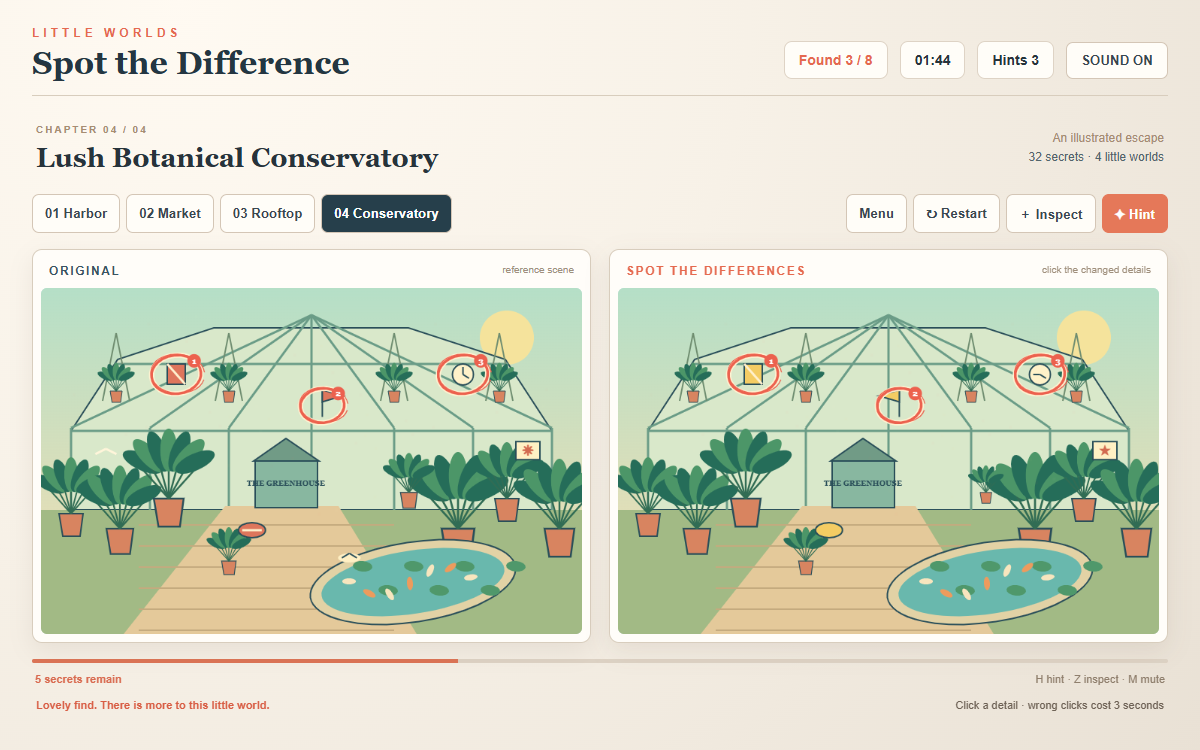
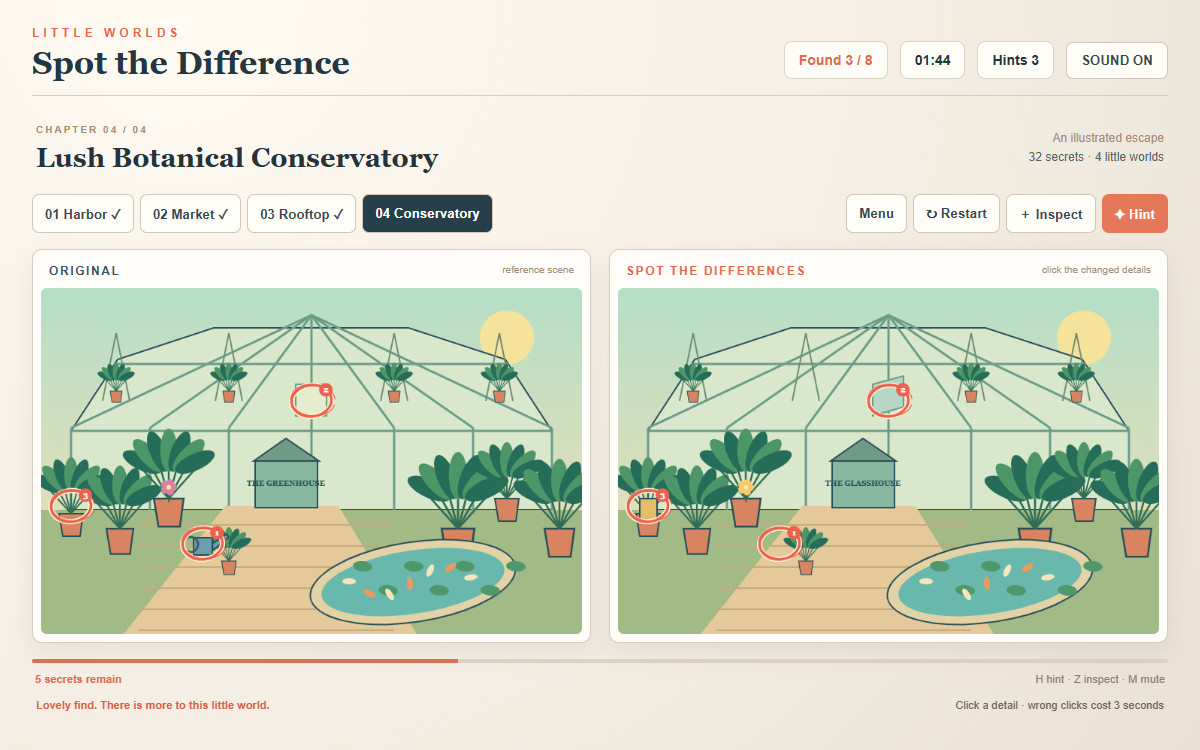
Integrate scene-native differences and refreshed browser captures

diff --git a/game/src/draw.js b/game/src/draw.js
@@ -10,12 +10,16 @@ function cloud(x,y){oval(x,y,38,10,'#fff6e2');oval(x-14,y-7,17,12,'#fff6e2');ova
 function house(x,y,w,h,color){box(x,y,w,h,color);path([[x-5,y],[x+w/2,y-30],[x+w+5,y]],'#d77c5c');for(let dx=10;dx<w-12;dx+=25)for(let dy=15;dy<h-20;dy+=32){box(x+dx,y+dy,13,20,'#fff2c3');line(x+dx+6,y+dy,x+dx+6,y+dy+20);line(x+dx,y+dy+9,x+dx+13,y+dy+9)}box(x+w/2-9,y+h-25,18,25,'#426b70')}
 function plant(x,y,size=1){c.save();c.translate(x,y);c.scale(size,size);path([[-16,0],[16,0],[12,30],[-11,30]],'#d88460');for(let j=0;j<7;j++){const a=(j-3)*.38;line(0,0,Math.sin(a)*40,-28-Math.cos(a)*30,'#316c54',2);oval(Math.sin(a)*31,-30-Math.cos(a)*22,9,23,j%2?'#4c9668':'#256d59',a)}c.restore()}
 function boat(x,y,color){oval(x,y+16,51,8,'#387e8c');path([[x-48,y],[x+49,y],[x+30,y+22],[x-29,y+22]],color);line(x,y,x,y-89);path([[x-4,y-80],[x-4,y-8],[x-47,y-8]],'#fff0cd');path([[x+4,y-67],[x+38,y-8],[x+4,y-8]],'#eab65f');line(x-28,y+9,x+29,y+9,'#fff3d1')}
-function table(x,y){oval(x,y,37,13,'#e9af7b',0,ink);line(x,y+10,x,y+54);line(x,y+54,x-25,y+65);line(x,y+54,x+25,y+65);box(x-10,y-15,16,13,'#fff2cd');oval(x+7,y-9,5,5,'#fff2cd',0,ink);oval(x-2,y-16,9,3,'#5b4034')}
+function table(x,y,cup=true,cupColor='#fff2cd'){oval(x,y,37,13,'#e9af7b',0,ink);line(x,y+10,x,y+54);line(x,y+54,x-25,y+65);line(x,y+54,x+25,y+65);if(!cup)return;box(x-10,y-15,16,13,cupColor);oval(x+7,y-9,5,5,'#fff2cd',0,ink);oval(x-2,y-16,9,3,'#5b4034')}
 function harbor(){cloud(95,65);cloud(370,85);path([[0,212],[130,160],[255,215],[390,170],[540,225],[720,182],[720,300],[0,300]],'#82b9b3',null);box(0,265,720,195,'#63b5c0',null);for(let j=0;j<38;j++){let x=(j*93)%720,y=278+(j*37)%180;line(x,y,x+20+j%4*8,y,'#add6ce',2)}house(23,187,66,100,'#f3ce99');house(94,175,67,112,'#e69d86');house(166,196,58,91,'#f1dfac');house(228,172,69,115,'#8db9ae');house(305,191,62,95,'#e7a06f');path([[517,268],[529,127],[560,127],[574,268]],'#fff2d1');path([[525,167],[563,167],[568,190],[522,190]],'#df715c');box(523,117,43,23,'#f4c66d');path([[516,117],[545,96],[573,117]],'#d75d50');line(545,96,545,81);oval(545,77,4,4,'#f7d770');box(537,217,15,27,'#3e6c78');path([[0,358],[365,320],[486,346],[0,425]],'#c89367');for(let j=0;j<15;j++)line(j*35,355-j*3.8,j*35+25,410-j*4.5,'#9b6d50');for(let x=35;x<390;x+=80){box(x,365-x*.1,11,63,'#8b6653');oval(x+5,365-x*.1,9,4,'#eac69b')}boat(440,350,'#de7357');boat(625,403,'#f6c25d');plant(55,371,.6);oval(655,105,40,8,'#f4e8cd');line(638,101,655,106,'#456a76');line(655,106,673,99,'#456a76');label('PORT SOL',195,268,13)}
-function market(){cloud(120,65);cloud(365,82);path([[0,310],[720,310],[720,460],[0,460]],'#d99c73',null);for(let y=340;y<460;y+=30)line(0,y,720,y,'#b87f64');for(let x=-200;x<900;x+=85)line(360,290,x,460,'#b87f64');house(15,180,90,137,'#e98f73');house(120,160,100,155,'#e9c47c');house(505,174,85,145,'#bd8d8b');house(605,197,99,122,'#e8b56e');box(421,124,66,195,'#f2c18a');box(413,112,82,20,'#d57959');path([[418,112],[454,74],[491,112]],'#77586b');oval(454,151,23,23,'#fff0c0',0,ink);line(454,151,454,136);line(454,151,464,157);for(let k=0;k<2;k++){let x=70+k*240;box(x,288,170,70,'#b87c50');box(x,264,170,35,'#f0b86d');for(let j=0;j<9;j++)box(x+j*19,225,19,40,j%2?'#f5dfb0':'#c85855');line(x,225,x+170,225);line(x,263,x,357);line(x+170,263,x+170,357);for(let j=0;j<15;j++)oval(x+12+(j%8)*20,281-Math.floor(j/8)*14,8,8,k?'#e8b94f':'#da6950',0,ink);label(k?'CITRUS & SUN':'THE FIG STALL',x+85,328,13,'#fff1c4')}line(0,95,720,125);for(let x=45;x<720;x+=100){line(x,96+x/24,x,140);oval(x,151,12,17,'#ef9c56',0,ink);line(x-10,148,x+10,148,'#f8d47b')}oval(585,383,20,20,'#3a5860');oval(667,383,20,20,'#3a5860');box(582,346,70,25,'#7cb5ae');path([[638,371],[652,324],[668,324],[667,371]],'#7cb5ae');line(649,323,678,323);box(589,336,34,8,'#614e48');plant(272,354,.65)}
-function rooftop(){for(let j=0;j<65;j++){const x=(j*127+21)%720,y=(j*43+12)%235;oval(x,y,j%4===0?2:1,1.5,'#f4e4b3')}for(let j=0;j<12;j++){let x=j*65,y=190+(j*29)%75;box(x,y,55,140,'#384a70',null);for(let xx=8;xx<48;xx+=13)for(let yy=12;yy<100;yy+=22)box(x+xx,y+yy,5,8,(j+yy)%3?'#e2b87a':'#596d8a',null)}box(0,307,720,153,'#b77d70',null);for(let y=330;y<460;y+=27)line(0,y,720,y,'#976576');box(0,281,720,20,'#d2a19c');for(let x=15;x<720;x+=28)line(x,300,x,326,'#f1c7a2',3);c.beginPath();c.moveTo(0,83);c.quadraticCurveTo(360,175,720,78);c.strokeStyle='#152b49';c.lineWidth=3;c.stroke();for(let x=20;x<720;x+=46){let y=85+67*Math.sin(x/720*Math.PI);line(x,y,x,y+12);oval(x,y+18,5,8,'#ffdb7b');oval(x,y+18,10,12,'#ffdb7b22')}box(480,261,183,91,'#324f66');box(473,251,197,15,'#edb47e');box(510,211,80,40,'#b8c3bd');box(519,223,60,12,'#294653');box(518,239,8,12,'#d47f64');box(560,239,8,12,'#d47f64');label('MOONBEAN',570,297,18,'#ffd58b');label('ESPRESSO · AFTER DARK',570,318,9,'#ecb38b');table(165,354);table(347,393);plant(59,330,.9);plant(693,326,.7);for(let x of [100,210,290,400]){box(x,375,26,9,'#e4a97f');line(x+4,384,x,419);line(x+23,384,x+27,419);line(x,375,x,347);line(x+26,375,x+26,347);line(x,347,x+26,347)}}
-function botanical(){path([[40,295],[40,190],[102,95],[230,53],[489,53],[618,95],[680,190],[680,295]],'#d9e8ca');for(let x of [40,145,250,360,470,575,680]){line(x,295,x,186,'#6a9c87',3);line(x,186,360,36,'#6a9c87',3)}line(40,190,680,190,'#6a9c87',3);line(98,101,622,101,'#6a9c87',3);box(0,295,720,165,'#a2ba85',null);path([[245,290],[396,290],[500,460],[110,460]],'#e4c99a',null);for(let y=315;y<460;y+=28)line(130,y,470,y,'#c4aa7e');for(let x of [40,105,170,555,620,690])plant(x,320-(x%3)*20,1+(x%4)*.12);for(let x of [100,250,470,610]){line(x,60,x-18,150,'#6f8d70');line(x,60,x+18,150,'#6f8d70');plant(x,137,.5)}oval(495,391,138,53,'#e2d2a5',-.15,ink);oval(495,391,123,42,'#69b8ad',-.15);for(let j=0;j<7;j++){oval(410+j*27,390+Math.sin(j)*19,9,4,j%2?'#ed9b5d':'#f7e5be',j*.5);oval(428+j*34,370+(j%2)*32,13,7,'#4f986b',.1)}box(285,230,83,62,'#88b7a0');path([[283,230],[326,200],[370,230]],'#719b86');label('THE GREENHOUSE',326,263,10);plant(250,363,.6)}
+function market(v){cloud(120,65);cloud(365,82);path([[0,310],[720,310],[720,460],[0,460]],'#d99c73',null);for(let y=340;y<460;y+=30)line(0,y,720,y,'#b87f64');for(let x=-200;x<900;x+=85)line(360,290,x,460,'#b87f64');house(15,180,90,137,'#e98f73');house(120,160,100,155,'#e9c47c');house(505,174,85,145,'#bd8d8b');house(605,197,99,122,'#e8b56e');box(421,124,66,195,'#f2c18a');box(413,112,82,20,'#d57959');path([[418,112],[454,74],[491,112]],'#77586b');oval(454,151,23,23,'#fff0c0',0,ink);line(454,151,v?443:454,v?151:136);line(454,151,464,157);for(let k=0;k<2;k++){let x=70+k*240;box(x,288,170,70,v&&k===0?'#778f75':'#b87c50');box(x,264,170,35,'#f0b86d');for(let j=0;j<9;j++)box(x+j*19,225,19,40,(v&&k===0&&j===2)?'#f5dfb0':j%2?'#f5dfb0':'#c85855');line(x,225,x+170,225);line(x,263,x,357);line(x+170,263,x+170,357);for(let j=0;j<15;j++){if(v&&k===1&&j===1)continue;oval(x+12+(j%8)*20,281-Math.floor(j/8)*14,8,8,k?'#e8b94f':'#da6950',0,ink)}label(k?'CITRUS & SUN':v?'THE FIG SHOP':'THE FIG STALL',x+85,328,13,'#fff1c4')}line(0,95,720,125);for(let x=45;x<720;x+=100){if(v&&x===45)continue;line(x,96+x/24,x,140);oval(x,151,12,17,'#ef9c56',0,ink);line(x-10,148,x+10,148,'#f8d47b')}oval(585,383,20,20,'#3a5860');oval(667,383,20,20,'#3a5860');box(582,346,70,25,'#7cb5ae');path([[638,371],[652,324],[668,324],[667,371]],'#7cb5ae');line(649,323,678,323);box(589,336,34,8,'#614e48');plant(272,354,.65);flower(272,325,v?'#f4d66d':'#cc6790');oval(665,342,7,6,v?'#f8dc82':'#b7d4c8',0,ink)}
+function rooftop(v){for(let j=0;j<65;j++){const x=(j*127+21)%720,y=(j*43+12)%235;oval(x,y,j%4===0?2:1,1.5,'#f4e4b3')}for(let j=0;j<12;j++){let x=j*65,y=190+(j*29)%75;box(x,y,55,140,'#384a70',null);for(let xx=8;xx<48;xx+=13)for(let yy=12;yy<100;yy+=22)box(x+xx,y+yy,5,8,(j+yy)%3?'#e2b87a':'#596d8a',null)}box(0,307,720,153,'#b77d70',null);for(let y=330;y<460;y+=27)line(0,y,720,y,'#976576');box(0,281,720,20,'#d2a19c');for(let x=15;x<720;x+=28)line(x,300,x,326,'#f1c7a2',3);c.beginPath();c.moveTo(0,83);c.quadraticCurveTo(360,175,720,78);c.strokeStyle='#152b49';c.lineWidth=3;c.stroke();for(let x=20;x<720;x+=46){if(v&&x===664)continue;let y=85+67*Math.sin(x/720*Math.PI);line(x,y,x,y+12);oval(x,y+18,5,8,'#ffdb7b');oval(x,y+18,10,12,'#ffdb7b22')}box(480,261,183,91,'#324f66');box(473,251,197,15,'#edb47e');box(510,211,80,40,'#b8c3bd');box(519,223,60,12,'#294653');box(518,239,8,12,'#d47f64');box(560,239,8,12,'#d47f64');label('MOONBEAN',570,297,18,v?'#87e4d5':'#ffd58b');label('ESPRESSO · AFTER DARK',570,318,9,'#ecb38b');table(165,354,!v);table(347,393,true,v?'#e37d68':'#fff2cd');plant(59,330,.9);plant(693,326,.7);for(let x of [100,210,290,400]){box(x,375,26,9,v&&x===100?'#72b8ae':'#e4a97f');line(x+4,384,x,419);line(x+23,384,x+27,419);line(x,375,x,347);line(x+26,375,x+26,347);line(x,347,x+26,347)}flower(59,296,v?'#f5d66e':'#c76c95');if(!v)cat(440,279)}
+function botanical(v){path([[40,295],[40,190],[102,95],[230,53],[489,53],[618,95],[680,190],[680,295]],'#d9e8ca');for(let x of [40,145,250,360,470,575,680]){line(x,295,x,186,'#6a9c87',3);line(x,186,360,36,'#6a9c87',3)}line(40,190,680,190,'#6a9c87',3);line(98,101,622,101,'#6a9c87',3);box(0,295,720,165,'#a2ba85',null);path([[245,290],[396,290],[500,460],[110,460]],'#e4c99a',null);for(let y=315;y<460;y+=28)line(130,y,470,y,'#c4aa7e');for(let x of [40,105,170,555,620,690])plant(x,320-(x%3)*20,1+(x%4)*.12);if(v)box(29,280,23,30,'#e5be6b');flower(170,265,v?'#f7ca6c':'#d981a4');for(let x of [100,250,470,610]){line(x,60,x-18,150,'#6f8d70');line(x,60,x+18,150,'#6f8d70');((v&&x===250)?null:plant(x,137,.5))}oval(495,391,138,53,'#e2d2a5',-.15,ink);oval(495,391,123,42,'#69b8ad',-.15);for(let j=0;j<7;j++){if(!(v&&j===1))oval(410+j*27,390+Math.sin(j)*19,9,4,j%2?'#ed9b5d':'#f7e5be',j*.5);if(!(v&&j===4))oval(428+j*34,370+(j%2)*32,13,7,'#4f986b',.1)}box(285,230,83,62,'#88b7a0');path([[283,230],[326,200],[370,230]],'#719b86');label(v?'THE GLASSHOUSE':'THE GREENHOUSE',326,263,10);plant(250,363,.6);if(!v)wateringCan(215,340);path(v?[[339,128],[380,117],[380,158],[339,170]]:[[339,128],[380,128],[380,170],[339,170]],v?'#b7d6c5':'#e6edcf','#6a9c87');}
 function differenceProp(x,y,j,v,index){c.save();c.translate(x,y);const coral=v?'#f4cc63':'#de765c';switch(j){case 0:if(!v){line(-14,0,0,-7,'#fff5da',3);line(0,-7,14,0,'#fff5da',3)}break;case 1:box(-12,-14,24,27,coral);line(-12,-14,12,13,'#fff0cd',3);break;case 2:oval(0,0,18,10,coral,0,ink);if(!v)line(-13,0,13,0,'#fff0cc',3);break;case 3:line(0,15,0,-21);path([[0,-21],[v?-27:27,-13],[0,-5]],coral);break;case 4:plant(0,5,v?.48:.7);break;case 5:oval(0,0,14,14,'#fff2c9',0,ink);line(0,0,v?-9:0,v?0:-10);line(0,0,8,5);break;case 6:box(-16,-12,32,24,'#fff0c4');label(v?'★':'☀',0,6,18,'#d26a50');break;case 7:if(!v){oval(0,0,15,6,'#fff0c4');line(-10,0,0,-6);line(0,-6,10,0)}break}c.restore()}
-export function drawScene(ctx,index,variant,found=[],pulse=null,hover=null,zoom=false){c=ctx;c.save();c.clearRect(0,0,720,460);if(zoom&&hover){c.translate(360,230);c.scale(1.6,1.6);c.translate(-hover.x*720,-hover.y*460)}const s=scenes[index];const g=c.createLinearGradient(0,0,0,460);g.addColorStop(0,s.sky);g.addColorStop(1,index===2?'#b56c85':'#f7deb0');c.fillStyle=g;c.fillRect(0,0,720,460);oval(620,66,36,36,s.sun);[harbor,market,rooftop,botanical][index]();s.diff.forEach((d,j)=>differenceProp(d.x*720,d.y*460,j,variant,index));found.forEach(i=>{const d=s.diff[i];ring(d.x*720,d.y*460,d.r*720*(1+.018*Math.sin(performance.now()/300)),'#ec614e',found.indexOf(i)+1)});if(pulse)ring(pulse.x*720,pulse.y*460,pulse.r*720*(1.12+.08*Math.sin(performance.now()/120)),'#ffe57a');if(hover){line(hover.x*720-8,hover.y*460,hover.x*720+8,hover.y*460,'#ffffffb0',1);line(hover.x*720,hover.y*460-8,hover.x*720,hover.y*460+8,'#ffffffb0',1)}c.restore()}
+export function drawScene(ctx,index,variant,found=[],pulse=null,hover=null,zoom=false){c=ctx;c.save();c.clearRect(0,0,720,460);if(zoom&&hover){c.translate(360,230);c.scale(1.6,1.6);c.translate(-hover.x*720,-hover.y*460)}const s=scenes[index];const g=c.createLinearGradient(0,0,0,460);g.addColorStop(0,s.sky);g.addColorStop(1,index===2?'#b56c85':'#f7deb0');c.fillStyle=g;c.fillRect(0,0,720,460);oval(620,66,36,36,s.sun);[harbor,market,rooftop,botanical][index](variant);if(index===2&&variant)oval(634,55,33,33,'#35416a');if(index===0)s.diff.forEach((d,j)=>differenceProp(d.x*720,d.y*460,j,variant,index));found.forEach(i=>{const d=s.diff[i];ring(d.x*720,d.y*460,d.r*720*(1+.018*Math.sin(performance.now()/300)),'#ec614e',found.indexOf(i)+1)});if(pulse)ring(pulse.x*720,pulse.y*460,pulse.r*720*(1.12+.08*Math.sin(performance.now()/120)),'#ffe57a');if(hover){line(hover.x*720-8,hover.y*460,hover.x*720+8,hover.y*460,'#ffffffb0',1);line(hover.x*720,hover.y*460-8,hover.x*720,hover.y*460+8,'#ffffffb0',1)}c.restore()}
 function ring(x,y,r,color,n){c.save();c.strokeStyle='#fff2d1';c.lineWidth=7;c.beginPath();c.ellipse(x,y,r,r*.78,-.1,0,7);c.stroke();c.strokeStyle=color;c.lineWidth=3.5;c.beginPath();c.ellipse(x,y,r,r*.78,-.1,0,7);c.stroke();c.lineWidth=1.3;c.beginPath();c.ellipse(x+2,y-1,r+3,r*.79,.08,.2,6.1);c.stroke();if(n){oval(x+r*.72,y-r*.55,9,9,color);label(String(n),x+r*.72,y-r*.55+4,11,'white')}c.restore()}
 export function setRingContext(){}
+
+function flower(x,y,color){line(x,y+20,x,y,'#376d54',2);for(let j=0;j<5;j++)oval(x+Math.cos(j*1.257)*6,y+Math.sin(j*1.257)*6,5,5,color);oval(x,y,3,3,'#ffe69d')}
+function cat(x,y){oval(x,y-10,13,17,'#d69764',0,ink);oval(x,y-28,10,9,'#d69764',0,ink);path([[x-9,y-30],[x-8,y-41],[x-1,y-35]],'#d69764');path([[x+1,y-35],[x+9,y-41],[x+9,y-30]],'#d69764');line(x-4,y-29,x-3,y-29,'#294e59',2);line(x+4,y-29,x+5,y-29,'#294e59',2);c.beginPath();c.moveTo(x+9,y);c.quadraticCurveTo(x+30,y+2,x+23,y-19);c.strokeStyle='#d69764';c.lineWidth=6;c.stroke()}
+function wateringCan(x,y){box(x-12,y-8,25,23,'#6b9ead');path([[x+13,y],[x+32,y-13],[x+35,y-9],[x+14,y+9]],'#6b9ead');c.beginPath();c.arc(x-16,y+1,10,0,7);c.strokeStyle='#385d65';c.lineWidth=3;c.stroke()}

diff --git a/game/src/scenes.js b/game/src/scenes.js
@@ -1,1 +1,1 @@
-export const scenes=[{name:'Sunny Coastal Harbor',sky:'#a9d9e4',ground:'#e9c28d',sun:'#ffd36b',accent:'#e16d55',objects:['boats','lighthouse','houses','pier','gulls'],diff:[{x:.18,y:.61,r:.055},{x:.33,y:.42,r:.05},{x:.52,y:.7,r:.05},{x:.69,y:.3,r:.045},{x:.83,y:.53,r:.05},{x:.4,y:.24,r:.04},{x:.61,y:.48,r:.04},{x:.9,y:.22,r:.04}]},{name:'Golden Sunset Market',sky:'#f5b26b',ground:'#cf7558',sun:'#ffe58a',accent:'#6d4c79',objects:['lanterns','awnings','fruit stalls','scooter','clock tower'],diff:[{x:.14,y:.27,r:.045},{x:.28,y:.55,r:.05},{x:.42,y:.33,r:.045},{x:.57,y:.66,r:.05},{x:.7,y:.28,r:.05},{x:.82,y:.51,r:.045},{x:.9,y:.2,r:.04},{x:.51,y:.2,r:.04}]},{name:'Starry Night Rooftop Café',sky:'#28365f',ground:'#d58b68',sun:'#f6df9b',accent:'#f5bd67',objects:['string lights','skyline','moon','espresso bar','plants'],diff:[{x:.12,y:.18,r:.04},{x:.25,y:.52,r:.05},{x:.4,y:.3,r:.045},{x:.57,y:.18,r:.05},{x:.7,y:.57,r:.05},{x:.83,y:.28,r:.04},{x:.91,y:.55,r:.045},{x:.48,y:.74,r:.045}]},{name:'Lush Botanical Conservatory',sky:'#b5dfc7',ground:'#72a77d',sun:'#f5e39c',accent:'#d86f55',objects:['glass dome','tropical plants','koi pond','hanging pots'],diff:[{x:.12,y:.48,r:.05},{x:.25,y:.25,r:.045},{x:.39,y:.7,r:.05},{x:.52,y:.34,r:.04},{x:.68,y:.58,r:.05},{x:.78,y:.25,r:.045},{x:.9,y:.47,r:.04},{x:.57,y:.78,r:.045}]}];
+export const scenes=[{name:'Sunny Coastal Harbor',sky:'#a9d9e4',ground:'#e9c28d',sun:'#ffd36b',accent:'#e16d55',objects:['boats','lighthouse','houses','pier','gulls'],diff:[{x:.18,y:.61,r:.055},{x:.33,y:.42,r:.05},{x:.52,y:.7,r:.05},{x:.69,y:.3,r:.045},{x:.83,y:.53,r:.05},{x:.4,y:.24,r:.04},{x:.61,y:.48,r:.04},{x:.9,y:.22,r:.04}]},{name:'Golden Sunset Market',sky:'#f5b26b',ground:'#cf7558',sun:'#ffe58a',accent:'#6d4c79',objects:['lanterns','awnings','fruit stalls','scooter','clock tower'],diff:[{"x":0.0625,"y":0.3282608695652174,"r":0.037},{"x":0.125,"y":0.7065217391304348,"r":0.037},{"x":0.15,"y":0.532608695652174,"r":0.037},{"x":0.9236111111111112,"y":0.7434782608695653,"r":0.037},{"x":0.6305555555555555,"y":0.3282608695652174,"r":0.037},{"x":0.37777777777777777,"y":0.7065217391304348,"r":0.037},{"x":0.2152777777777778,"y":0.7130434782608696,"r":0.037},{"x":0.4583333333333333,"y":0.6108695652173913,"r":0.037}]},{name:'Starry Night Rooftop Café',sky:'#28365f',ground:'#d58b68',sun:'#f6df9b',accent:'#f5bd67',objects:['string lights','skyline','moon','espresso bar','plants'],diff:[{"x":0.8611111111111112,"y":0.14347826086956522,"r":0.037},{"x":0.22916666666666666,"y":0.7369565217391304,"r":0.037},{"x":0.6111111111111112,"y":0.6065217391304348,"r":0.037},{"x":0.7916666666666666,"y":0.6456521739130435,"r":0.037},{"x":0.9222222222222223,"y":0.26304347826086955,"r":0.037},{"x":0.08194444444444444,"y":0.6434782608695652,"r":0.037},{"x":0.1388888888888889,"y":0.8,"r":0.037},{"x":0.48194444444444445,"y":0.8217391304347826,"r":0.037}]},{name:'Lush Botanical Conservatory',sky:'#b5dfc7',ground:'#72a77d',sun:'#f5e39c',accent:'#d86f55',objects:['glass dome','tropical plants','koi pond','hanging pots'],diff:[{"x":0.6069444444444444,"y":0.8826086956521739,"r":0.037},{"x":0.2986111111111111,"y":0.7391304347826086,"r":0.037},{"x":0.2361111111111111,"y":0.5760869565217391,"r":0.037},{"x":0.5,"y":0.32608695652173914,"r":0.037},{"x":0.3472222222222222,"y":0.32608695652173914,"r":0.037},{"x":0.05555555555555555,"y":0.6304347826086957,"r":0.037},{"x":0.4527777777777778,"y":0.5717391304347826,"r":0.037},{"x":0.7638888888888888,"y":0.8152173913043478,"r":0.037}]}];

diff --git a/README.md b/README.md
@@ -9,3 +9,7 @@ Run `node serve.ts`, then open http://localhost:8080. Click either picture. H gi
 `MAKEFUN_OUTPUT_DIR=out node main.ts` packages the static files, screenshots and the unchanged kit dossier generator. This kit does not publish its scorer; grading happens on make.fun.
 
 Art and synthesized effects were authored for this entry. The original MIT LICENSE is retained, with an SPDX declaration added for the submission checker.
+
+[![make.fun](https://make.fun/badge/best-spot-the-difference-game-20261121-0451.svg)](https://make.fun/c/best-spot-the-difference-game-20261121-0451)
+[![Rank](https://make.fun/badge/best-spot-the-difference-game-20261121-0451/botieno827-beep/spotdiff-entry/rank.svg)](https://make.fun/c/best-spot-the-difference-game-20261121-0451)
+[![Reward](https://make.fun/badge/best-spot-the-difference-game-20261121-0451/botieno827-beep/spotdiff-entry/reward.svg)](https://make.fun/c/best-spot-the-difference-game-20261121-0451)
